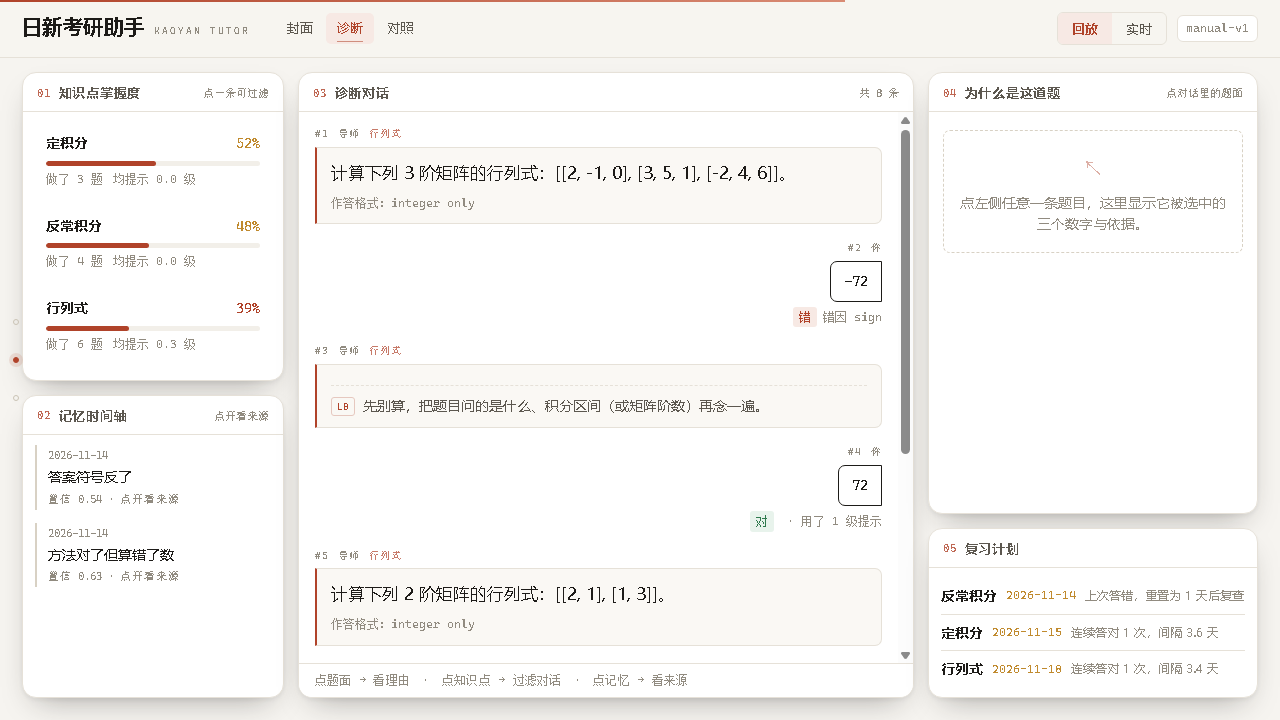
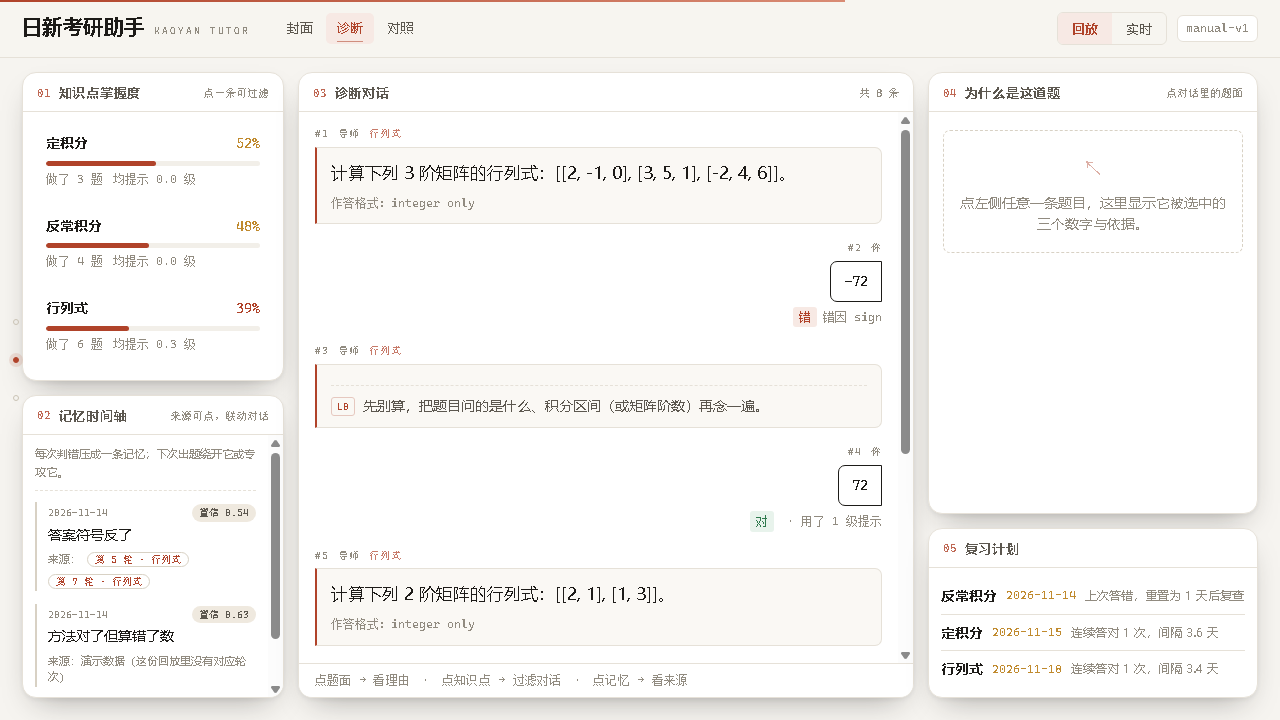
feat(tutor): 记忆时间轴讲清楚——每条=一次判错、置信标签、来源轮次可点跳转、展开原始事件id｜验收：check_all 六套 PASS

Changed region(s): [[0.0312, 0.6111, 0.2188, 0.9472], [0.0312, 0.7333, 0.1562, 0.825]]

diff --git a/docs/preview/tutor.html b/docs/preview/tutor.html
@@ -136,6 +136,19 @@
     background:var(--surface-3);border-radius:3px;padding:2px 6px}
 
   /* ── 记忆 / 复习 ── */
+  .mem-intro{font-size:11px;color:var(--faint);line-height:1.65;margin-bottom:11px;
+    padding-bottom:9px;border-bottom:1px dashed var(--line)}
+  .mem-top{display:flex;align-items:baseline;justify-content:space-between;gap:8px}
+  .mem-date{font-family:var(--font-mono);font-size:10px;color:var(--faint)}
+  .mem-conf{font-family:var(--font-mono);font-size:10px;color:var(--muted);
+    background:#efe9df;border-radius:999px;padding:1px 7px;white-space:nowrap}
+  .mem-src{font-size:10.5px;color:var(--faint);margin-top:6px;
+    display:flex;align-items:center;gap:6px;flex-wrap:wrap}
+  .srclink{font-family:var(--font-mono);font-size:10px;color:var(--accent);background:none;
+    border:1px solid var(--line-strong);border-radius:999px;padding:1px 7px;cursor:pointer}
+  .srclink:hover{background:rgba(176,67,42,.08)}
+  .mem-note{font-size:10px;color:var(--faint);line-height:1.65;margin-top:8px;
+    padding-top:9px;border-top:1px dashed var(--line)}
   .mem{border-left:2px solid var(--line-strong);padding:2px 0 2px 11px;margin-bottom:13px;
     cursor:pointer;position:relative}
   .mem:hover{border-left-color:var(--accent)}
@@ -642,7 +655,7 @@
       <div class="body" id="kcs"></div>
     </section>
     <section class="panel" style="flex:1 1 auto">
-      <h2><em>02</em>记忆时间轴<span class="tip">点开看来源</span></h2>
+      <h2><em>02</em>记忆时间轴<span class="tip">来源可点，联动对话</span></h2>
       <div class="body" id="memory-timeline"></div>
     </section>
   </div>
@@ -850,26 +863,57 @@
       : '<div class="why-empty">点左侧任意一条题目，这里显示它被选中的三个数字与依据。</div>';
   }
 
-  /* ── 记忆时间轴 ── */
+  /* ── 记忆时间轴：每条 = 一次判错压出来的记忆；来源是产生它的对话轮次 ── */
+  function memTurnRefs(id){
+    var out = [];
+    (D.turns || []).forEach(function(t){
+      var ms = (t.why && t.why.memory) || [];
+      if (ms.indexOf(id) >= 0 && out.indexOf(t) < 0) out.push(t);
+    });
+    return out;
+  }
   function renderMemory(){
     var box = el("memory-timeline");
     var ms = D.memory_timeline || [];
     if (!ms.length){
-      box.innerHTML = '<div class="why-empty">还没有积累到记忆。</div>';
+      box.innerHTML = '<div class="why-empty">还没有积累到记忆：答错一次后，这里会出现第一条。</div>';
       return;
     }
-    box.innerHTML = "";
+    box.innerHTML = '<div class="mem-intro">每次判错压成一条记忆；' +
+      '下次出题绕开它或专攻它。</div>';
     ms.forEach(function(m){
+      var refs = [];
+      (m.src || []).forEach(function(id){
+        memTurnRefs(id).forEach(function(t){ if (refs.indexOf(t) < 0) refs.push(t); });
+      });
+      var srcHtml = refs.length
+        ? '来源：' + refs.map(function(t){
+            return '<button class="srclink" data-n="' + t.n + '">第 ' + t.n + ' 轮' +
+              (t.kc ? ' · ' + esc(kcName(t.kc)) : '') + '</button>';
+          }).join("")
+        : '来源：演示数据（这份回放里没有对应轮次）';
       var d = document.createElement("div");
       d.className = "mem";
-      var src = (m.src || []).map(function(s){ return '<span>' + esc(s) + '</span>'; }).join("");
-      d.innerHTML = '<div class="t">' + esc(m.t) + '</div>' +
+      var raw = (m.src || []).map(function(s){ return "<span>" + esc(s) + "</span>"; }).join("");
+      d.innerHTML = '<div class="mem-top"><span class="mem-date">' + esc(m.t) + '</span>' +
+        '<span class="mem-conf">置信 ' + num(m.conf) + '</span></div>' +
         '<div class="txt">' + esc(m.text) + '</div>' +
-        '<div class="conf">置信 ' + num(m.conf) + (src ? ' · 点开看来源' : '') + '</div>' +
-        (src ? '<div class="src">' + src + '</div>' : "");
+        '<div class="mem-src">' + srcHtml + '</div>' +
+        (raw ? '<div class="src">' + raw + '</div>' : "");
       d.addEventListener("click", function(){ d.classList.toggle("open"); });
+      Array.prototype.forEach.call(d.querySelectorAll(".srclink"), function(b){
+        b.addEventListener("click", function(e){
+          e.stopPropagation();
+          selTurn = Number(b.getAttribute("data-n"));
+          renderTurns(); renderWhy();
+        });
+      });
       box.appendChild(d);
     });
+    var note = document.createElement("div");
+    note.className = "mem-note";
+    note.textContent = "置信 = 这条记忆的把握程度；来源 = 产生它的对话轮次，点一下会跳到那一轮。";
+    box.appendChild(note);
   }
 
   /* ── 复习计划 ── */

diff --git a/web/tutor.html b/web/tutor.html
@@ -136,6 +136,19 @@
     background:var(--surface-3);border-radius:3px;padding:2px 6px}
 
   /* ── 记忆 / 复习 ── */
+  .mem-intro{font-size:11px;color:var(--faint);line-height:1.65;margin-bottom:11px;
+    padding-bottom:9px;border-bottom:1px dashed var(--line)}
+  .mem-top{display:flex;align-items:baseline;justify-content:space-between;gap:8px}
+  .mem-date{font-family:var(--font-mono);font-size:10px;color:var(--faint)}
+  .mem-conf{font-family:var(--font-mono);font-size:10px;color:var(--muted);
+    background:#efe9df;border-radius:999px;padding:1px 7px;white-space:nowrap}
+  .mem-src{font-size:10.5px;color:var(--faint);margin-top:6px;
+    display:flex;align-items:center;gap:6px;flex-wrap:wrap}
+  .srclink{font-family:var(--font-mono);font-size:10px;color:var(--accent);background:none;
+    border:1px solid var(--line-strong);border-radius:999px;padding:1px 7px;cursor:pointer}
+  .srclink:hover{background:rgba(176,67,42,.08)}
+  .mem-note{font-size:10px;color:var(--faint);line-height:1.65;margin-top:8px;
+    padding-top:9px;border-top:1px dashed var(--line)}
   .mem{border-left:2px solid var(--line-strong);padding:2px 0 2px 11px;margin-bottom:13px;
     cursor:pointer;position:relative}
   .mem:hover{border-left-color:var(--accent)}
@@ -326,7 +339,7 @@
       <div class="body" id="kcs"></div>
     </section>
     <section class="panel" style="flex:1 1 auto">
-      <h2><em>02</em>记忆时间轴<span class="tip">点开看来源</span></h2>
+      <h2><em>02</em>记忆时间轴<span class="tip">来源可点，联动对话</span></h2>
       <div class="body" id="memory-timeline"></div>
     </section>
   </div>
@@ -534,26 +547,57 @@
       : '<div class="why-empty">点左侧任意一条题目，这里显示它被选中的三个数字与依据。</div>';
   }
 
-  /* ── 记忆时间轴 ── */
+  /* ── 记忆时间轴：每条 = 一次判错压出来的记忆；来源是产生它的对话轮次 ── */
+  function memTurnRefs(id){
+    var out = [];
+    (D.turns || []).forEach(function(t){
+      var ms = (t.why && t.why.memory) || [];
+      if (ms.indexOf(id) >= 0 && out.indexOf(t) < 0) out.push(t);
+    });
+    return out;
+  }
   function renderMemory(){
     var box = el("memory-timeline");
     var ms = D.memory_timeline || [];
     if (!ms.length){
-      box.innerHTML = '<div class="why-empty">还没有积累到记忆。</div>';
+      box.innerHTML = '<div class="why-empty">还没有积累到记忆：答错一次后，这里会出现第一条。</div>';
       return;
     }
-    box.innerHTML = "";
+    box.innerHTML = '<div class="mem-intro">每次判错压成一条记忆；' +
+      '下次出题绕开它或专攻它。</div>';
     ms.forEach(function(m){
+      var refs = [];
+      (m.src || []).forEach(function(id){
+        memTurnRefs(id).forEach(function(t){ if (refs.indexOf(t) < 0) refs.push(t); });
+      });
+      var srcHtml = refs.length
+        ? '来源：' + refs.map(function(t){
+            return '<button class="srclink" data-n="' + t.n + '">第 ' + t.n + ' 轮' +
+              (t.kc ? ' · ' + esc(kcName(t.kc)) : '') + '</button>';
+          }).join("")
+        : '来源：演示数据（这份回放里没有对应轮次）';
       var d = document.createElement("div");
       d.className = "mem";
-      var src = (m.src || []).map(function(s){ return '<span>' + esc(s) + '</span>'; }).join("");
-      d.innerHTML = '<div class="t">' + esc(m.t) + '</div>' +
+      var raw = (m.src || []).map(function(s){ return "<span>" + esc(s) + "</span>"; }).join("");
+      d.innerHTML = '<div class="mem-top"><span class="mem-date">' + esc(m.t) + '</span>' +
+        '<span class="mem-conf">置信 ' + num(m.conf) + '</span></div>' +
         '<div class="txt">' + esc(m.text) + '</div>' +
-        '<div class="conf">置信 ' + num(m.conf) + (src ? ' · 点开看来源' : '') + '</div>' +
-        (src ? '<div class="src">' + src + '</div>' : "");
+        '<div class="mem-src">' + srcHtml + '</div>' +
+        (raw ? '<div class="src">' + raw + '</div>' : "");
       d.addEventListener("click", function(){ d.classList.toggle("open"); });
+      Array.prototype.forEach.call(d.querySelectorAll(".srclink"), function(b){
+        b.addEventListener("click", function(e){
+          e.stopPropagation();
+          selTurn = Number(b.getAttribute("data-n"));
+          renderTurns(); renderWhy();
+        });
+      });
       box.appendChild(d);
     });
+    var note = document.createElement("div");
+    note.className = "mem-note";
+    note.textContent = "置信 = 这条记忆的把握程度；来源 = 产生它的对话轮次，点一下会跳到那一轮。";
+    box.appendChild(note);
   }
 
   /* ── 复习计划 ── */
